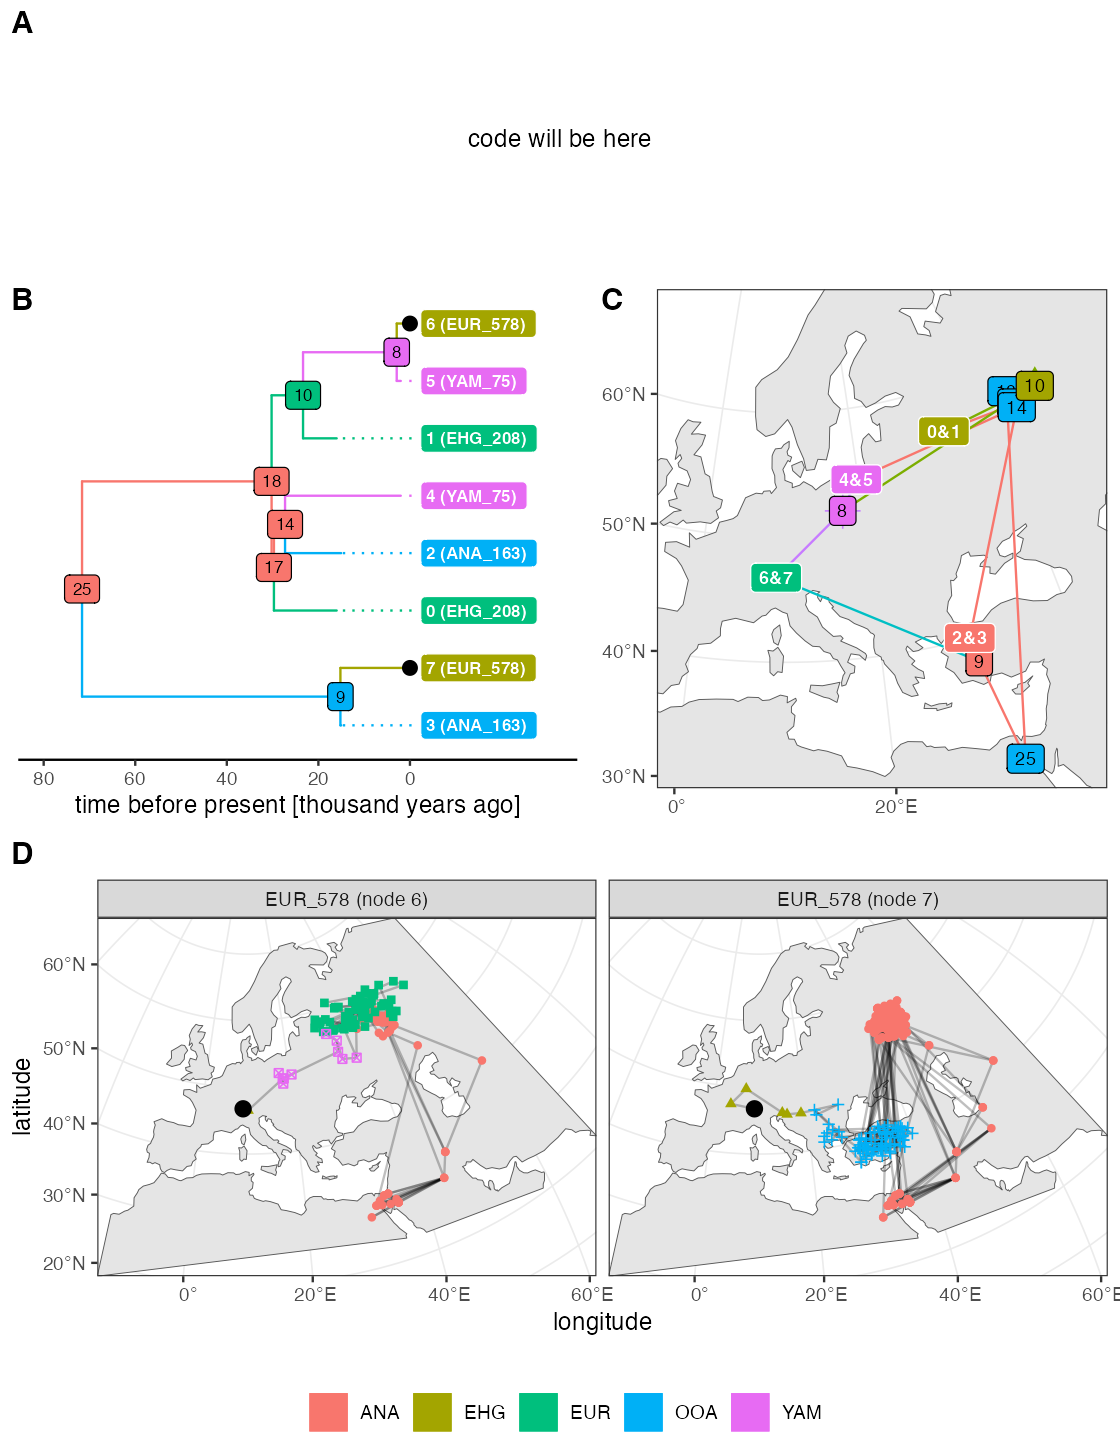
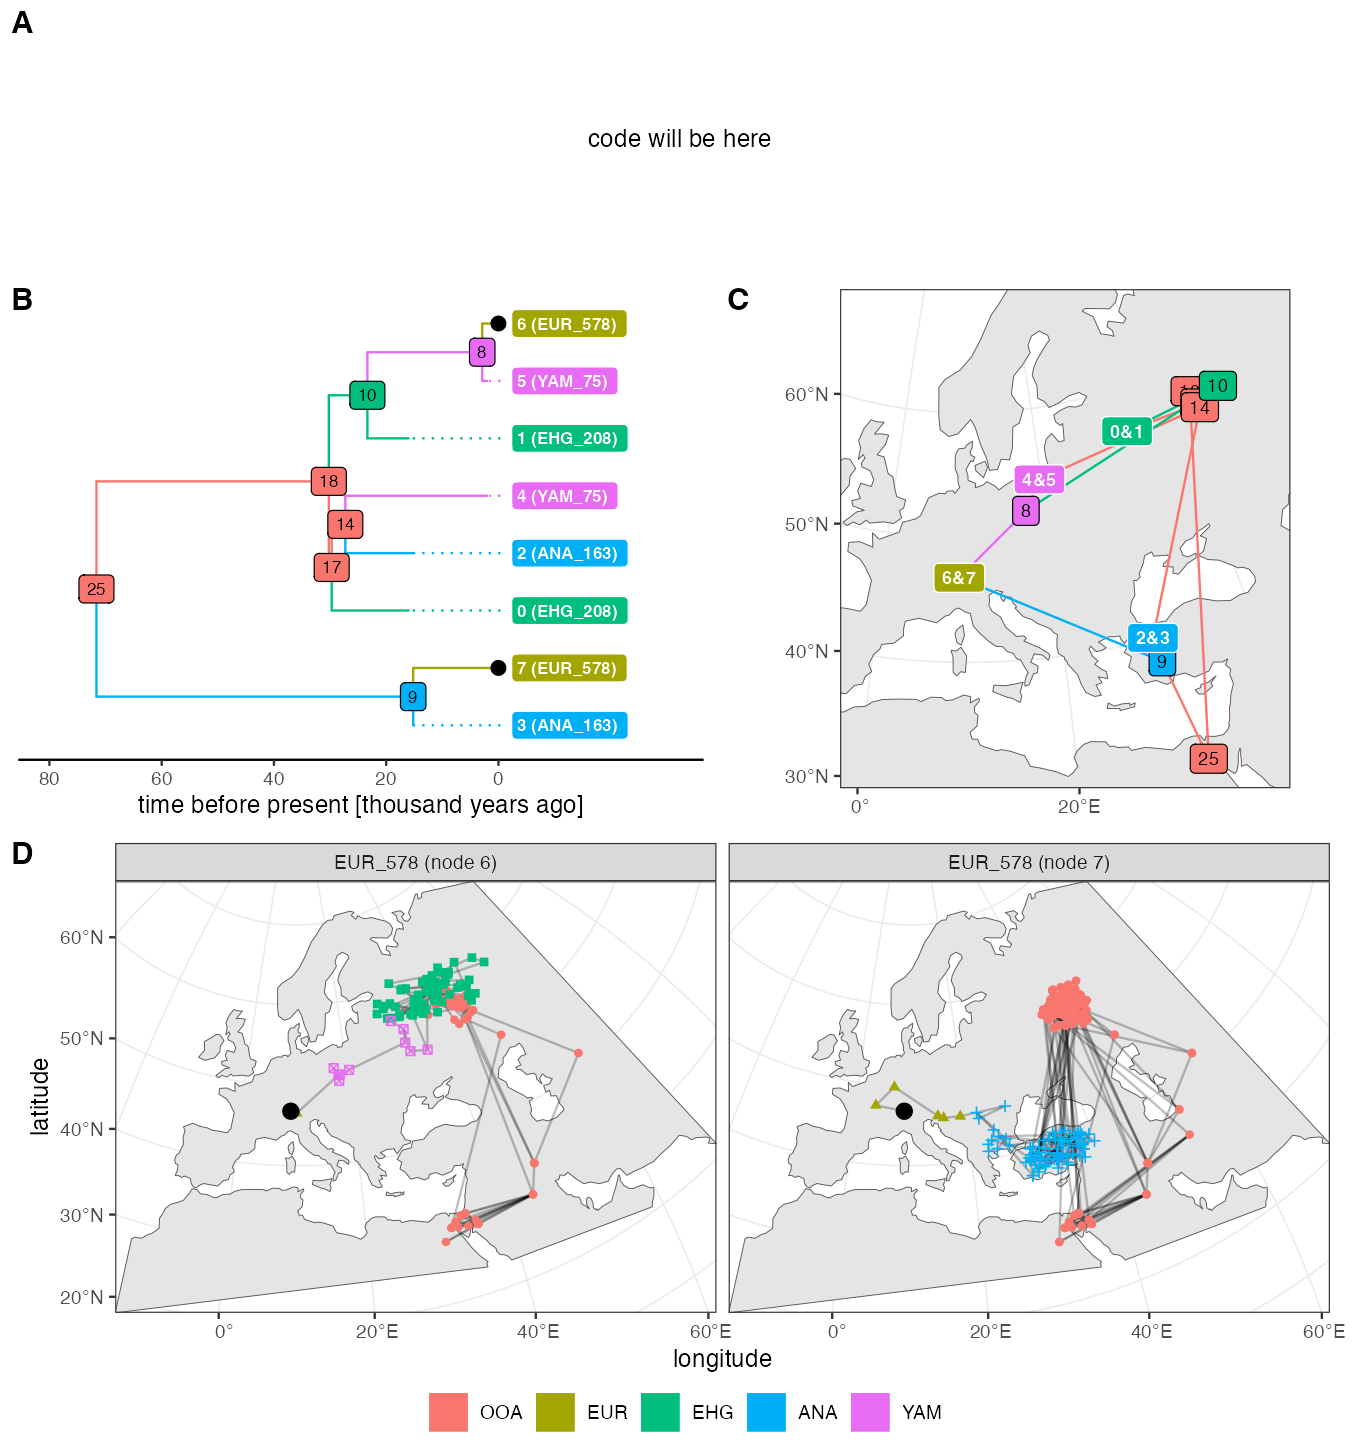
Increase ex4 figure width

diff --git a/docs/articles/vignette-09-paper.html b/docs/articles/vignette-09-paper.html
@@ -140,7 +140,6 @@
 <span><span class="co">#&gt; having to debug very technical, low-level Python-specific issues. This</span></span>
 <span><span class="co">#&gt; note will be removed in a future version of slendr.</span></span>
 <span><span class="co">#&gt; =======================================================================</span></span>
-<span><span class="co"># devtools::load_all(".")</span></span>
 <span></span>
 <span><span class="kw"><a href="https://rdrr.io/r/base/library.html" class="external-link">library</a></span><span class="op">(</span><span class="va"><a href="https://dplyr.tidyverse.org" class="external-link">dplyr</a></span><span class="op">)</span></span>
 <span><span class="co">#&gt; </span></span>
@@ -358,7 +357,7 @@
 <div class="sourceCode" id="cb7"><pre class="downlit sourceCode r">
 <code class="sourceCode R"><span><span class="va">map</span> <span class="op">&lt;-</span> <span class="fu"><a href="../reference/world.html">world</a></span><span class="op">(</span>xrange <span class="op">=</span> <span class="fu"><a href="https://rdrr.io/r/base/c.html" class="external-link">c</a></span><span class="op">(</span><span class="op">-</span><span class="fl">13</span>, <span class="fl">70</span><span class="op">)</span>, yrange <span class="op">=</span> <span class="fu"><a href="https://rdrr.io/r/base/c.html" class="external-link">c</a></span><span class="op">(</span><span class="fl">18</span>, <span class="fl">65</span><span class="op">)</span>, crs <span class="op">=</span> <span class="fl">3035</span><span class="op">)</span></span>
 <span><span class="co">#&gt; OGR data source with driver: ESRI Shapefile </span></span>
-<span><span class="co">#&gt; Source: "/private/var/folders/d_/hblb15pd3b94rg0v35920wd80000gn/T/RtmpOREb1U/naturalearth", layer: "ne_110m_land"</span></span>
+<span><span class="co">#&gt; Source: "/private/var/folders/d_/hblb15pd3b94rg0v35920wd80000gn/T/RtmpUidrxk/naturalearth", layer: "ne_110m_land"</span></span>
 <span><span class="co">#&gt; with 127 features</span></span>
 <span><span class="co">#&gt; It has 3 fields</span></span>
 <span></span>
@@ -390,7 +389,7 @@
 <div class="sourceCode" id="cb8"><pre class="downlit sourceCode r">
 <code class="sourceCode R"><span><span class="va">map</span> <span class="op">&lt;-</span> <span class="fu"><a href="../reference/world.html">world</a></span><span class="op">(</span>xrange <span class="op">=</span> <span class="fu"><a href="https://rdrr.io/r/base/c.html" class="external-link">c</a></span><span class="op">(</span><span class="op">-</span><span class="fl">13</span>, <span class="fl">70</span><span class="op">)</span>, yrange <span class="op">=</span> <span class="fu"><a href="https://rdrr.io/r/base/c.html" class="external-link">c</a></span><span class="op">(</span><span class="fl">18</span>, <span class="fl">65</span><span class="op">)</span>, crs <span class="op">=</span> <span class="fl">3035</span><span class="op">)</span></span>
 <span><span class="co">#&gt; OGR data source with driver: ESRI Shapefile </span></span>
-<span><span class="co">#&gt; Source: "/private/var/folders/d_/hblb15pd3b94rg0v35920wd80000gn/T/RtmpOREb1U/naturalearth", layer: "ne_110m_land"</span></span>
+<span><span class="co">#&gt; Source: "/private/var/folders/d_/hblb15pd3b94rg0v35920wd80000gn/T/RtmpUidrxk/naturalearth", layer: "ne_110m_land"</span></span>
 <span><span class="co">#&gt; with 127 features</span></span>
 <span><span class="co">#&gt; It has 3 fields</span></span>
 <span></span>
@@ -554,8 +553,6 @@
 <span><span class="va">p_map</span> <span class="op">&lt;-</span> <span class="fu"><a href="https://ggplot2.tidyverse.org/reference/ggplot.html" class="external-link">ggplot</a></span><span class="op">(</span><span class="op">)</span> <span class="op">+</span></span>
 <span>  <span class="fu"><a href="https://ggplot2.tidyverse.org/reference/ggsf.html" class="external-link">geom_sf</a></span><span class="op">(</span>data <span class="op">=</span> <span class="va">map</span><span class="op">)</span> <span class="op">+</span></span>
 <span>  <span class="fu"><a href="https://ggplot2.tidyverse.org/reference/ggsf.html" class="external-link">geom_sf</a></span><span class="op">(</span>data <span class="op">=</span> <span class="va">edges</span>, <span class="fu"><a href="https://ggplot2.tidyverse.org/reference/aes.html" class="external-link">aes</a></span><span class="op">(</span>color <span class="op">=</span> <span class="va">parent_pop</span><span class="op">)</span>, size <span class="op">=</span> <span class="fl">0.5</span><span class="op">)</span> <span class="op">+</span></span>
-<span>  <span class="fu"><a href="https://ggplot2.tidyverse.org/reference/ggsf.html" class="external-link">geom_sf</a></span><span class="op">(</span>data <span class="op">=</span> <span class="fu"><a href="https://dplyr.tidyverse.org/reference/filter.html" class="external-link">filter</a></span><span class="op">(</span><span class="va">nodes</span>, <span class="fu"><a href="https://rdrr.io/r/base/NA.html" class="external-link">is.na</a></span><span class="op">(</span><span class="va">name</span><span class="op">)</span><span class="op">)</span>,</span>
-<span>          <span class="fu"><a href="https://ggplot2.tidyverse.org/reference/aes.html" class="external-link">aes</a></span><span class="op">(</span>color <span class="op">=</span> <span class="va">pop</span>, shape <span class="op">=</span> <span class="va">pop</span><span class="op">)</span>, size <span class="op">=</span> <span class="fl">5</span><span class="op">)</span> <span class="op">+</span></span>
 <span>  <span class="fu"><a href="https://ggplot2.tidyverse.org/reference/ggsf.html" class="external-link">geom_sf_label</a></span><span class="op">(</span>data <span class="op">=</span> <span class="va">nodes</span><span class="op">[</span><span class="op">!</span><span class="va">nodes</span><span class="op">$</span><span class="va">sampled</span>, <span class="op">]</span>,</span>
 <span>                <span class="fu"><a href="https://ggplot2.tidyverse.org/reference/aes.html" class="external-link">aes</a></span><span class="op">(</span>label <span class="op">=</span> <span class="va">node_id</span>, fill <span class="op">=</span> <span class="va">pop</span><span class="op">)</span>, size <span class="op">=</span> <span class="fl">3</span><span class="op">)</span> <span class="op">+</span></span>
 <span>  <span class="fu"><a href="https://ggplot2.tidyverse.org/reference/ggsf.html" class="external-link">geom_sf_label</a></span><span class="op">(</span>data <span class="op">=</span> <span class="va">nodes</span><span class="op">[</span><span class="va">nodes</span><span class="op">$</span><span class="va">sampled</span>, <span class="op">]</span>,</span>
@@ -564,7 +561,9 @@
 <span>  <span class="fu"><a href="https://ggplot2.tidyverse.org/reference/ggsf.html" class="external-link">coord_sf</a></span><span class="op">(</span>xlim <span class="op">=</span> <span class="fu"><a href="https://rdrr.io/r/base/c.html" class="external-link">c</a></span><span class="op">(</span><span class="fl">3177066.1</span>, <span class="fl">7188656.9</span><span class="op">)</span>,</span>
 <span>           ylim <span class="op">=</span> <span class="fu"><a href="https://rdrr.io/r/base/c.html" class="external-link">c</a></span><span class="op">(</span><span class="fl">757021.7</span>, <span class="fl">5202983.3</span><span class="op">)</span>, expand <span class="op">=</span> <span class="fl">0</span><span class="op">)</span> <span class="op">+</span></span>
 <span>  <span class="fu"><a href="https://ggplot2.tidyverse.org/reference/guides.html" class="external-link">guides</a></span><span class="op">(</span>fill <span class="op">=</span> <span class="fu"><a href="https://ggplot2.tidyverse.org/reference/guide_legend.html" class="external-link">guide_legend</a></span><span class="op">(</span><span class="st">""</span>, override.aes <span class="op">=</span> <span class="fu"><a href="https://ggplot2.tidyverse.org/reference/aes.html" class="external-link">aes</a></span><span class="op">(</span>label <span class="op">=</span> <span class="st">""</span><span class="op">)</span><span class="op">)</span><span class="op">)</span> <span class="op">+</span></span>
-<span>  <span class="fu"><a href="https://ggplot2.tidyverse.org/reference/guides.html" class="external-link">guides</a></span><span class="op">(</span>color <span class="op">=</span> <span class="st">"none"</span>, shape <span class="op">=</span> <span class="st">"none"</span><span class="op">)</span> <span class="op">+</span></span>
+<span>  <span class="fu"><a href="https://ggplot2.tidyverse.org/reference/guides.html" class="external-link">guides</a></span><span class="op">(</span>color <span class="op">=</span> <span class="st">"none"</span><span class="op">)</span> <span class="op">+</span></span>
+<span>  <span class="fu"><a href="https://ggplot2.tidyverse.org/reference/scale_colour_discrete.html" class="external-link">scale_colour_discrete</a></span><span class="op">(</span>drop <span class="op">=</span> <span class="cn">FALSE</span><span class="op">)</span> <span class="op">+</span></span>
+<span>  <span class="fu"><a href="https://ggplot2.tidyverse.org/reference/scale_colour_discrete.html" class="external-link">scale_fill_discrete</a></span><span class="op">(</span>drop <span class="op">=</span> <span class="cn">FALSE</span><span class="op">)</span> <span class="op">+</span></span>
 <span>  <span class="fu"><a href="https://ggplot2.tidyverse.org/reference/ggtheme.html" class="external-link">theme_bw</a></span><span class="op">(</span><span class="op">)</span> <span class="op">+</span></span>
 <span>  <span class="fu"><a href="https://ggplot2.tidyverse.org/reference/theme.html" class="external-link">theme</a></span><span class="op">(</span>legend.position <span class="op">=</span> <span class="st">"bottom"</span>,</span>
 <span>        axis.title.x <span class="op">=</span> <span class="fu"><a href="https://ggplot2.tidyverse.org/reference/element.html" class="external-link">element_blank</a></span><span class="op">(</span><span class="op">)</span>,</span>
@@ -601,7 +600,7 @@
 <span><span class="op">)</span></span>
 <span></span>
 <span><span class="va">p_ex4</span></span></code></pre></div>
-<p><img src="vignette-09-paper_files/figure-html/figure_ex4-1.png" width="560"></p>
+<p><img src="vignette-09-paper_files/figure-html/figure_ex4-1.png" width="680"></p>
 </div>
 </div>
   </main><aside class="col-md-3"><nav id="toc"><h2>On this page</h2>
